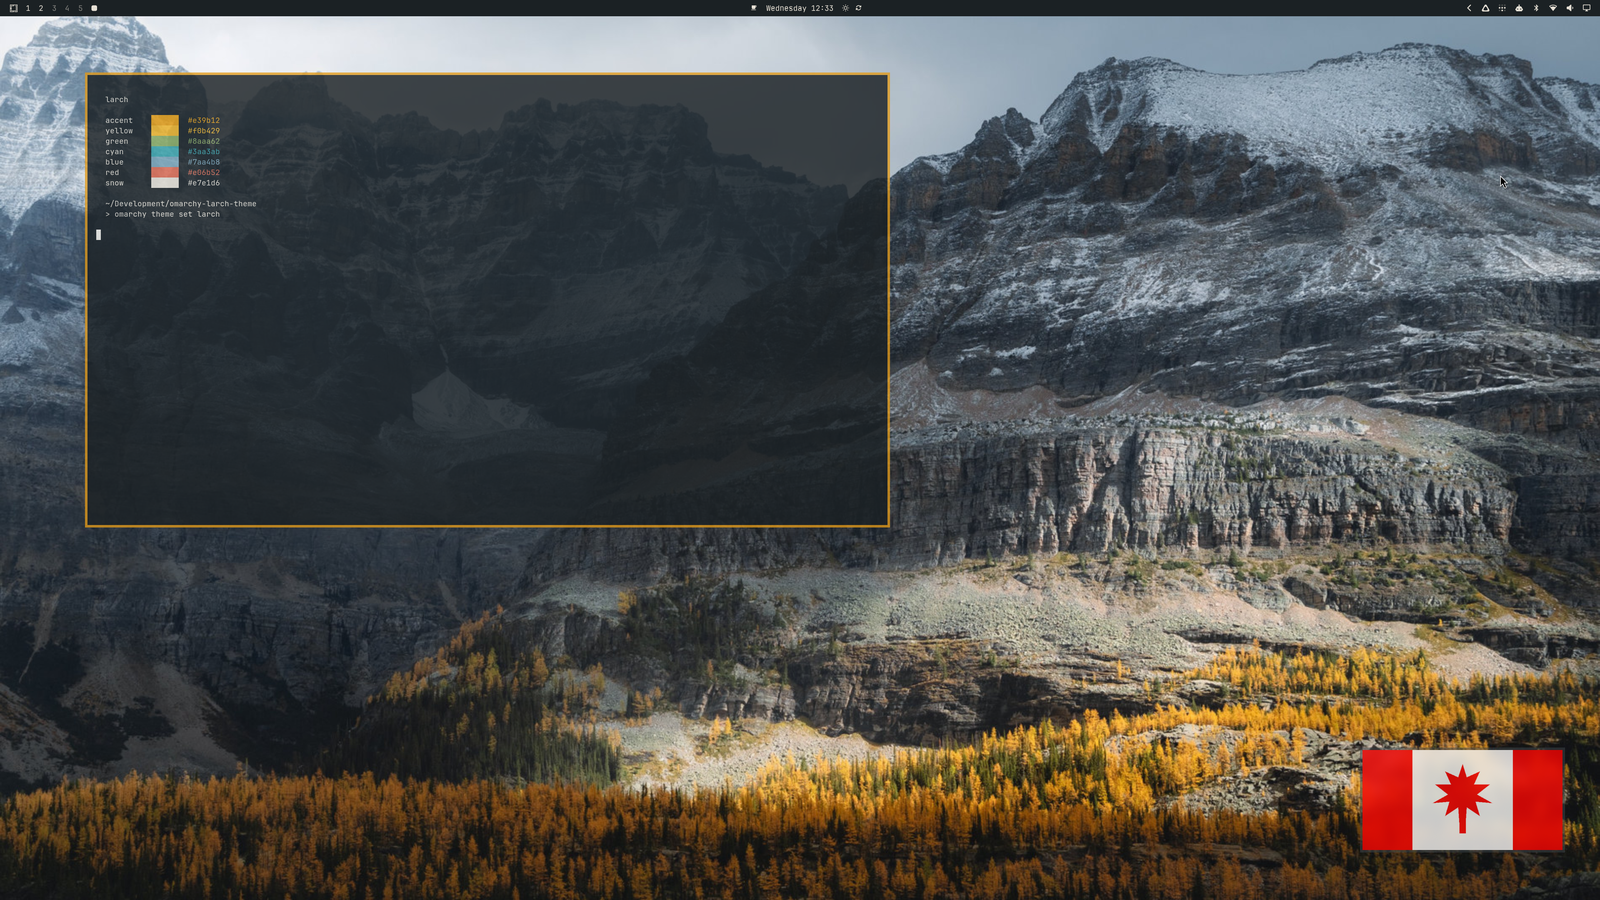
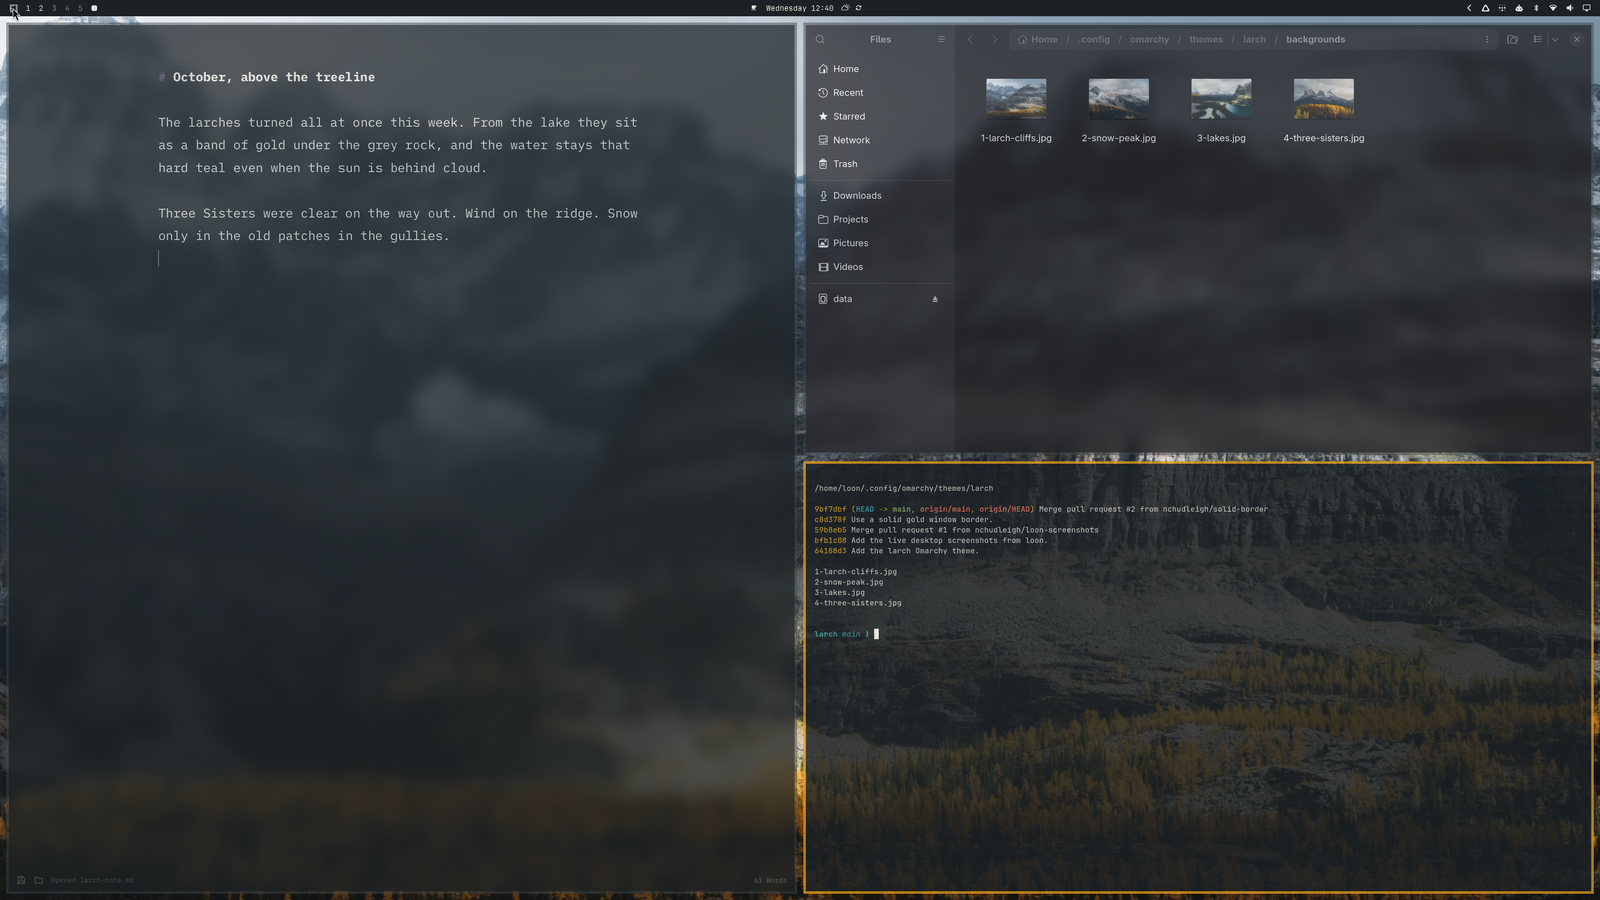
Replace the gallery with app screenshots.
The desktop shots now show Omawrite, Files, and a terminal on the three wallpapers. The flag window is gone.

diff --git a/README.md b/README.md
@@ -8,7 +8,9 @@ omarchy theme install https://github.com/nchudleigh/omarchy-larch-theme
 
 The theme shows up as **larch**. Cycle the four photographs with `omarchy theme bg next`.
 
-Shot on loon, the 4K desktop where this theme is installed. The window border is solid larch gold.
+Light variant: [larch-light](https://github.com/nchudleigh/omarchy-larch-light-theme).
+
+Shot on loon. The window border is solid larch gold.
 
 ![Larch cliffs](gallery/loon-cliffs.png)
 
